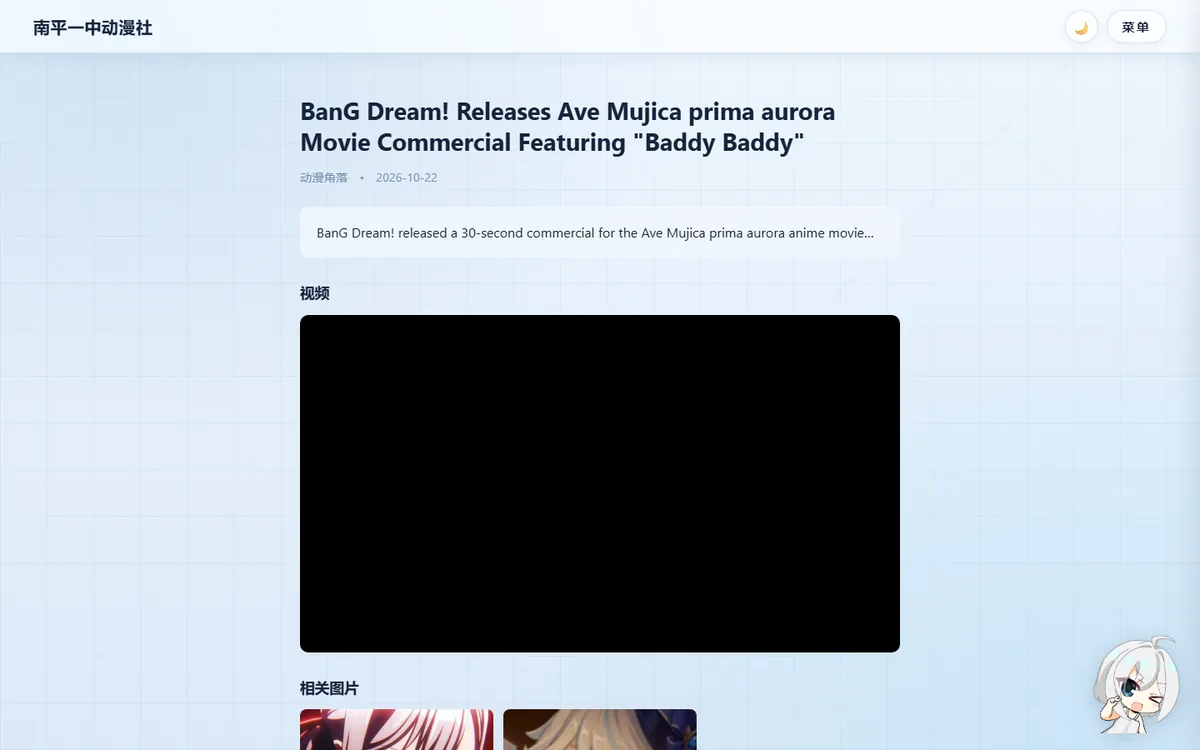
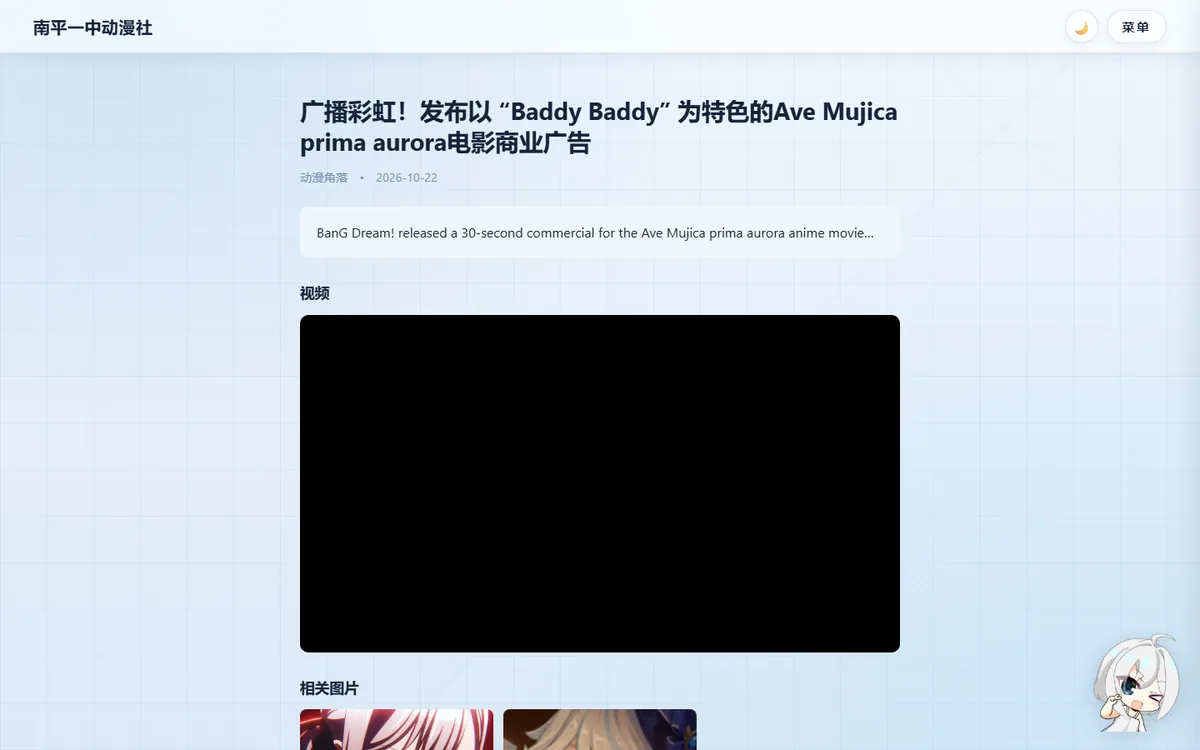
docs: 新闻列表 / 详情截图取自线上环境（含机器翻译）（v4.22.1）
- 动漫新闻、新闻详情两张截图改用线上环境重拍：
  - 列表：新卡片布局（条数工具条、无图占位、阅读全文），20 条/页
  - 详情：正文为机器翻译后的中文（线上已配置阿里云翻译），不再是全英文
- README 两张截图的说明补上「截图为线上环境」；页面导览继续标注
  「截图全部为样例数据，不含真实社员信息」
- 无代码改动，纯文档/截图：PATCH 发布

Changed region(s): [[0.2467, 0.1227, 0.74, 0.2147], [0.8942, 0.828, 0.9867, 0.9813]]

diff --git a/README.md b/README.md
@@ -51,8 +51,8 @@
     <td align="center" width="50%"><img src="docs/screenshots/login.webp" alt="登录页" width="440"><br><sub><b>登录页</b> · 支持用户名 / QQ 号 / 邮箱登录</sub></td>
   </tr>
   <tr>
-    <td align="center"><img src="docs/screenshots/news.webp" alt="动漫新闻" width="440"><br><sub><b>动漫新闻</b> · 聚合资讯、来源筛选、搜索历史、显示语言切换</sub></td>
-    <td align="center"><img src="docs/screenshots/news-detail.webp" alt="新闻详情" width="440"><br><sub><b>新闻详情</b> · 全文 + 译文优先 / 仅原文 / 双语对照、白名单视频嵌入</sub></td>
+    <td align="center"><img src="docs/screenshots/news.webp" alt="动漫新闻" width="440"><br><sub><b>动漫新闻</b> · 聚合资讯、来源筛选、搜索历史、显示语言切换（截图为线上环境，20 条/页）</sub></td>
+    <td align="center"><img src="docs/screenshots/news-detail.webp" alt="新闻详情" width="440"><br><sub><b>新闻详情</b> · 全文 + 译文优先 / 仅原文 / 双语对照、白名单视频嵌入（截图为线上环境，已开启机器翻译）</sub></td>
   </tr>
 </table>
 
